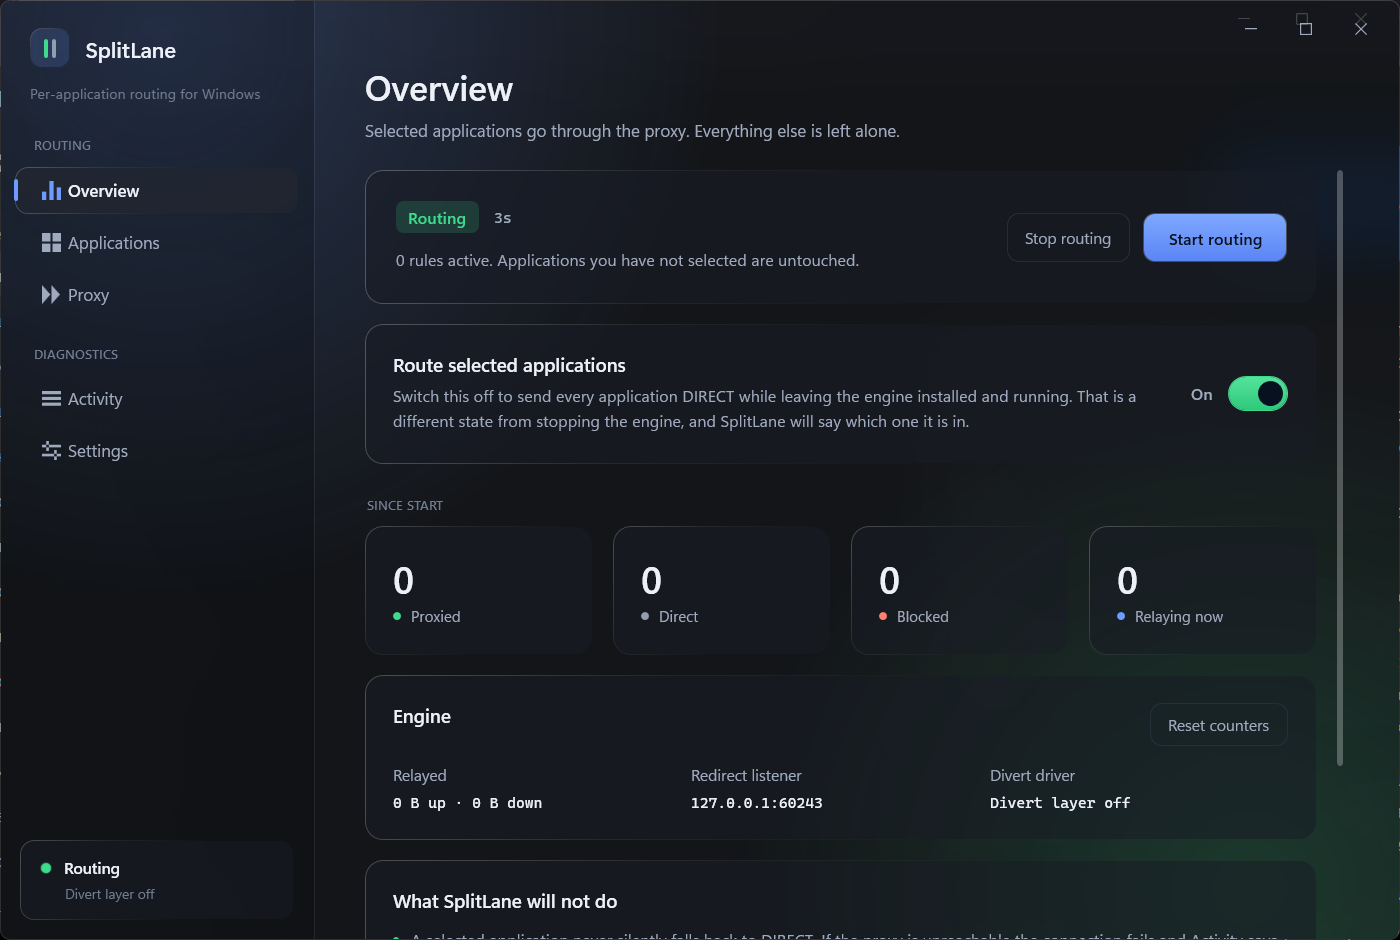
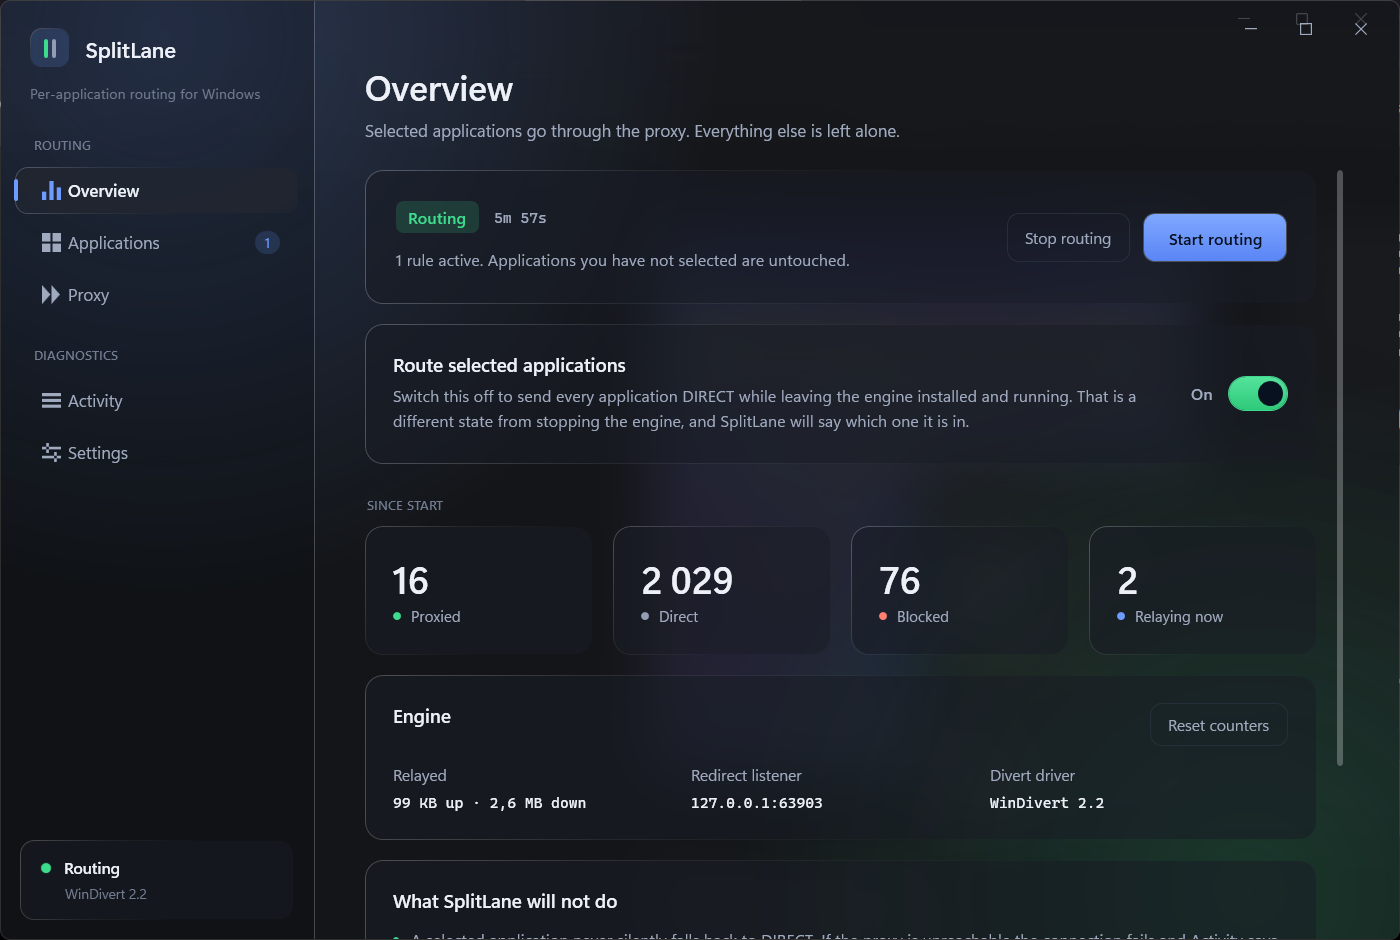
docs(windows): show the application in the README
The README described an interface nobody could see. It now opens with it: Overview while
routing, then Applications, Proxy, Activity and Settings side by side, then the light
theme.

The captures are re-taken from the current build rather than reused, because the ones in
the gallery predated both the field-height correction and the light theme - a README
showing an older interface is a small lie that gets larger with every change.

Each is the real application driven through UI Automation and photographed from the
screen, and the counters in them are traffic that actually went through the proxy.

diff --git a/windows/README.md b/windows/README.md
@@ -28,6 +28,29 @@ This is the Windows counterpart of the macOS build in the repository root. It is
 design, not of the code: the routing model, the vocabulary and the guarantees are the same, and
 almost nothing underneath them is.
 
+## What it looks like
+
+![Overview](docs/screenshots/1-overview.png)
+
+The Overview page while routing: what is proxied, what went DIRECT, what was blocked, how much has
+been relayed, and which driver is loaded. Everything on it is read from the running engine.
+
+| | |
+|---|---|
+| ![Applications](docs/screenshots/3-applications.png) | ![Proxy](docs/screenshots/4-proxy.png) |
+| **Applications** — the proxy lane. Anything not listed here stays DIRECT. *Include folder* covers an application's helper processes, and follows it when it updates itself into a new directory. | **Proxy** — where the lane points, with a reachability test that actually connects. The password is encrypted for the machine and stored outside the configuration file. |
+| ![Activity](docs/screenshots/5-activity.png) | ![Settings](docs/screenshots/6-settings.png) |
+| **Activity** — connections SplitLane handled, with what each one moved and how long its handshake took. DIRECT decisions are counted but not listed: the engine sees every connection on the machine, and recording them all would make this a log of everything you do. | **Settings** — the divert layer's state, where things are stored, and a plain statement of how this differs from the macOS build. |
+
+![Light theme](docs/screenshots/8-light-theme.png)
+
+A light theme, chosen in Settings and applied as you choose it. *Follow Windows* is the default and
+keeps following it afterwards, not only at startup.
+
+Every one of these is the real application, driven through UI Automation by
+[`tools/uiprobe`](tools/uiprobe/) and captured from the screen. Nothing here is a mockup or a
+rendering, and the numbers in them are traffic that actually went through the proxy.
+
 ## What makes it different
 
 **Selected applications never silently fall back to DIRECT.** If the proxy is unreachable, the

diff --git a/windows/docs/screenshots/README.md b/windows/docs/screenshots/README.md
@@ -11,6 +11,10 @@ a running engine over the control channel.
 | | |
 |---|---|
 | `1-overview.png` | Engine live. State, master switch, counters, and what SplitLane will not do. |
+
+`1` and `3`-`6` are re-captured whenever the interface changes, so what the README shows is what
+the current build looks like rather than what an earlier one did. `2` is older than the rest.
+
 | `2-picker.png` | Adding an application from the running-process list. |
 | `3-applications.png` | A saved rule. The banner is the round-trip through the control channel. |
 | `4-proxy.png` | Upstream settings after a successful reachability test against a real SOCKS5 proxy. |
